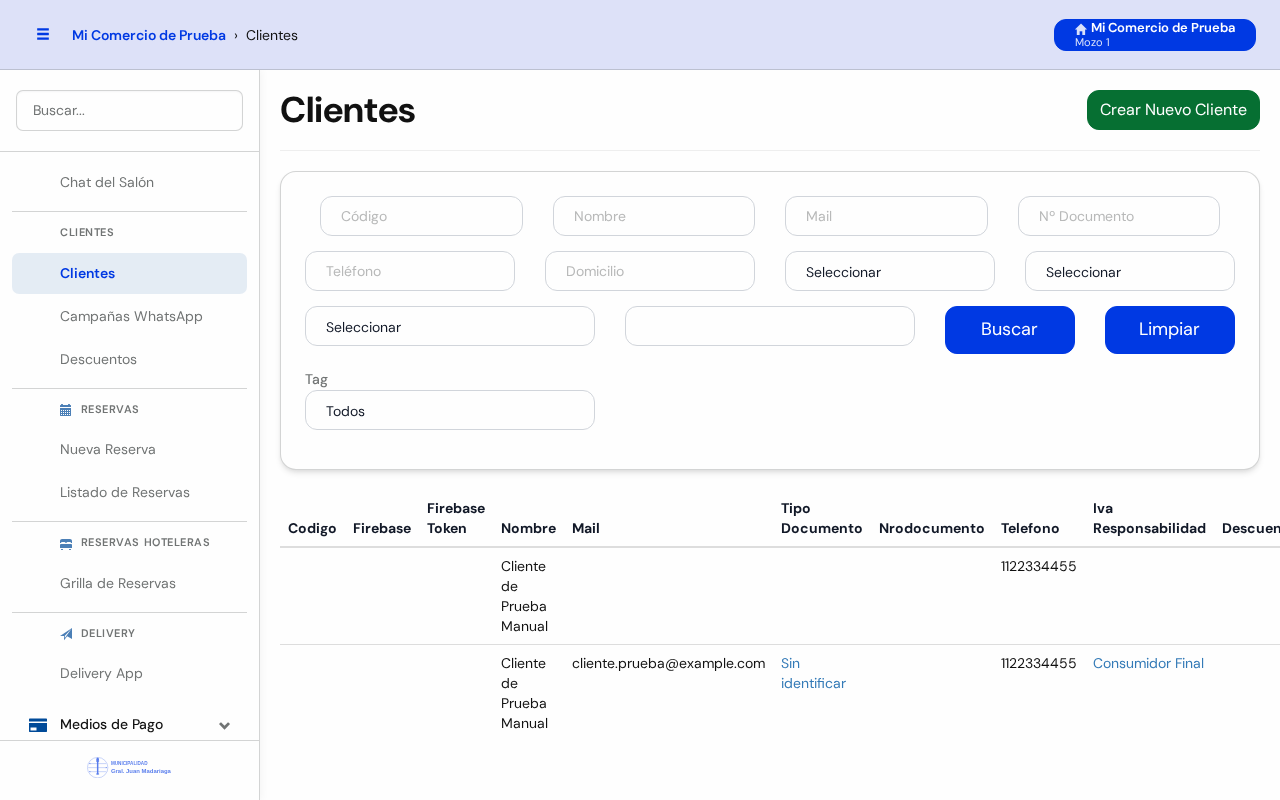
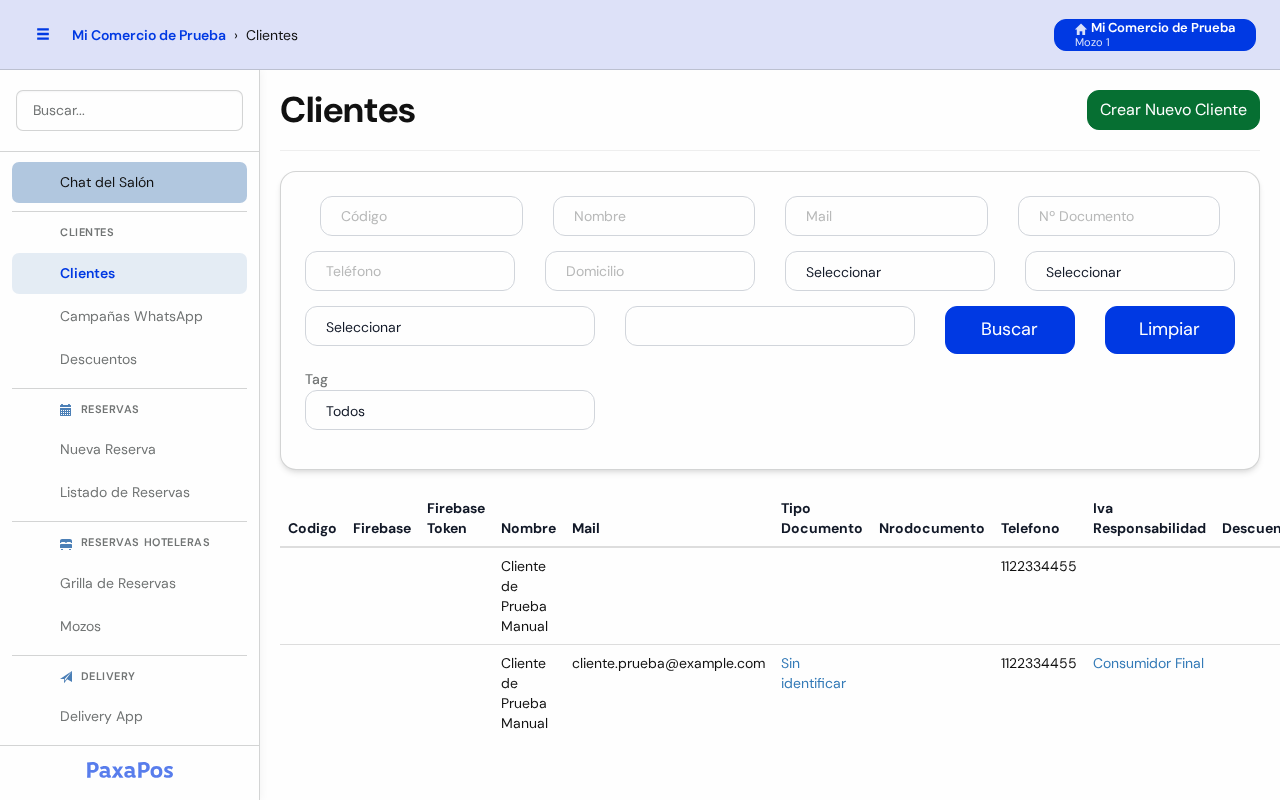
docs(manual): capturas por botón en 26 Cómo Configurar Descuentos
Receta 26 contra dev2: menú, búsqueda, alta (datos de mentira, sin guardar)
y Editar/Borrar (Borrar solo foto). Artículo reescrito paso a paso; el tope
de descuento del mozo está en Configuración general → Ventas y salón.

Se recapturan 10, 11, 12 y 13: las anteriores mostraban en el menú lateral
el logo de un comercio real.

Refs #149 #148

Changed region(s): [[0.0, 0.1875, 0.2188, 0.2812], [0.0, 0.7812, 0.125, 0.9688], [0.1562, 0.9062, 0.1875, 0.9375]]

diff --git a/src/routes/user-guide/Manual-Usuario/20-Ventas/26-Descuentos.md b/src/routes/user-guide/Manual-Usuario/20-Ventas/26-Descuentos.md
@@ -2,57 +2,134 @@
 
 <div id="descuentos"></div>
 
+> **¿Dónde está en el sistema?:** Menú principal → **Ventas** → **Descuentos**  
+> **¿Quién lo usa?:** Encargados y administradores
+
 > 🎯 **¿Para qué sirve esto?**
-> Desde Descuentos podés crear porcentajes de bonificación predefinidos (ej: "10% Empleados", "Cliente VIP") para aplicarlos rápido sobre una mesa o una venta, sin tener que calcular el importe a mano cada vez.
+> Acá creás descuentos listos para usar. Por ejemplo: *10% Empleados* o *Cliente VIP*. Después los aplicás en una mesa o en la Caja Rápida sin hacer cuentas.
 
 ---
 
-## 📍 **Paso 1: Accedé al listado de Descuentos**
+## 📍 **Paso 1: Entrá al listado de Descuentos**
 
-<div id="paso-1-accede-al-listado-de-descuentos"></div>
+<div id="paso-1-entra-al-listado-de-descuentos"></div>
 
-1. Desde el menú principal, tocá **Ventas** → **Descuentos**.
-2. Se abrirá el listado con todos los descuentos ya creados.
+![Grupo Ventas del menú lateral](images/manual/20-ventas/26-00a-menu-grupo-ventas.png)
 
-![Listado de descuentos con formulario de búsqueda por nombre y tabla de resultados](images/manual/20-ventas/12-descuentos-listado.png)
+1. En el menú de la izquierda, tocá **Ventas**. Se despliegan sus opciones.
 
-En esta pantalla vas a encontrar:
-- El botón verde **"Crear Descuento"** arriba a la derecha.
-- Un campo de búsqueda por **Nombre del Descuento**.
-- La tabla con las columnas: Nombre, Descripción, Porcentaje, Creado y las acciones (Editar, Borrar).
+![Opción Descuentos dentro del grupo Ventas](images/manual/20-ventas/26-00b-menu-opcion-descuentos.png)
 
-> 💡 **Consejo útil:** El porcentaje máximo que un mozo puede aplicar sin autorización se define en **Configuración → Parámetros del Sistema** (umbral de descuento). Por encima de ese valor, se necesita el permiso **"Aplicación y Configuración de Descuentos"**.
+2. Bajá hasta la parte **Clientes** y tocá **Descuentos**.
+3. Se abre el listado con los descuentos que ya existen.
 
----
+![Listado de descuentos con el buscador arriba y la tabla abajo](images/manual/20-ventas/12-descuentos-listado.png)
 
-## ➕ **Paso 2: Creá un nuevo descuento**
+En esta pantalla vas a ver:
 
-<div id="paso-2-crea-un-nuevo-descuento"></div>
-
-1. Tocá el botón verde **"Crear Descuento"**.
-2. Completá el formulario:
-
-![Formulario de alta de un nuevo descuento con nombre, descripción y porcentaje](images/manual/20-ventas/13-descuentos-nuevo-formulario.png)
-
-   - **Nombre:** Un título corto para identificarlo (ej: "10%").
-   - **Descripción:** Un detalle opcional (ej: "Descuento para empleados").
-   - **Porcentaje:** Solo el número, sin el signo `%` (ej: `10`).
-3. Tocá **"Agregar"** para guardarlo, o **"Cancelar"** para volver sin guardar.
-
-> ⚠ **Atención:** El porcentaje se descuenta sobre el total de la cuenta al aplicarlo desde el Salón de Ventas o la Caja Rápida.
+- **Arriba a la derecha:** el botón verde **Crear Descuento**.
+- **En el medio:** el buscador por **Nombre del Descuento**.
+- **Abajo:** la tabla con cada descuento, su porcentaje y sus botones **Editar** y **Borrar**.
 
 ---
 
-## ✏ **Paso 3: Editá o eliminá un descuento**
+## 🔍 **Paso 2: Buscá un descuento**
 
-<div id="paso-3-edita-o-elimina-un-descuento"></div>
+<div id="paso-2-busca-un-descuento"></div>
 
-En la columna de acciones de cada fila del listado:
+![Casillero Nombre del Descuento](images/manual/20-ventas/26-04-campo-name.png)
 
-![Botones de acción Editar y Borrar de un descuento](images/manual/20-ventas/40-descuentos-botones-accion.png)
+1. En **Nombre del Descuento**, escribí una parte del nombre. Por ejemplo: *10*.
 
-- Tocá **"Editar"** para modificar el nombre, la descripción o el porcentaje.
-- Tocá **"Borrar"** para eliminarlo. El sistema te pedirá confirmación antes de hacerlo.
+![Listado con el botón Buscar marcado en rojo](images/manual/20-ventas/26-05-donde-esta-boton-buscar.png)
+
+![Botón azul Buscar](images/manual/20-ventas/26-06-boton-buscar.png)
+
+2. Tocá el botón azul **Buscar**.
+3. La tabla muestra solo los descuentos que coinciden.
+
+---
+
+## ➕ **Paso 3: Creá un descuento nuevo**
+
+<div id="paso-3-crea-un-descuento-nuevo"></div>
+
+![Listado con el botón Crear Descuento marcado en rojo](images/manual/20-ventas/26-02-donde-esta-boton-crear-descuento.png)
+
+![Botón verde Crear Descuento](images/manual/20-ventas/26-03-boton-crear-descuento.png)
+
+1. Tocá el botón verde **Crear Descuento**, arriba a la derecha.
+2. Se abre la pantalla **Crear Descuento**.
+
+![Pantalla Crear Descuento con Nombre, Descripción y Porcentaje](images/manual/20-ventas/13-descuentos-nuevo-formulario.png)
+
+![Casillero Nombre con el texto Empleados 10%](images/manual/20-ventas/26-11-campo-nombre.png)
+
+3. En **Nombre**, escribí un nombre corto. Por ejemplo: *Empleados 10%*. Es el que vas a ver al aplicarlo.
+
+![Casillero Descripción](images/manual/20-ventas/26-12-campo-description.png)
+
+4. En **Descripción**, podés anotar para qué es. Por ejemplo: *Descuento para el personal*. Es opcional.
+
+![Casillero Porcentaje con el número 10](images/manual/20-ventas/26-13-campo-porcentaje.png)
+
+5. En **Porcentaje**, escribí **solo el número**, sin el signo %. Por ejemplo: *10*.
+
+![Pantalla Crear Descuento con el botón Agregar marcado en rojo](images/manual/20-ventas/26-14-donde-esta-boton-agregar.png)
+
+![Botón verde Agregar](images/manual/20-ventas/26-15-boton-agregar.png)
+
+6. Tocá el botón verde **Agregar**, abajo a la izquierda.
+7. El descuento queda guardado y aparece en el listado.
+
+![Pantalla Crear Descuento con el botón Cancelar marcado en rojo](images/manual/20-ventas/26-16-donde-esta-boton-cancelar.png)
+
+![Botón Cancelar](images/manual/20-ventas/26-17-boton-cancelar.png)
+
+- Si no querés guardarlo, tocá **Cancelar**, abajo a la derecha.
+
+> 💡 **Consejo útil:** El descuento se calcula sobre el total de la cuenta cuando lo aplicás en el [Salón de Ventas](/user-guide/salon-de-ventas).
+
+---
+
+## ✏ **Paso 4: Cambiá o borrá un descuento**
+
+<div id="paso-4-cambia-o-borra-un-descuento"></div>
+
+A la derecha de cada descuento hay dos botones:
+
+![Botones Editar y Borrar de un descuento](images/manual/20-ventas/40-descuentos-botones-accion.png)
+
+### Cambiar un descuento
+
+![Listado con el botón Editar marcado en rojo](images/manual/20-ventas/26-07-donde-esta-boton-editar.png)
+
+![Botón Editar](images/manual/20-ventas/26-08-boton-editar.png)
+
+1. Tocá **Editar** en el descuento que querés cambiar.
+2. Cambiá el nombre, la descripción o el porcentaje.
+3. Tocá el botón verde **Actualizar** para guardar.
+
+### Borrar un descuento
+
+> ⚠ **Atención:** Borrar un descuento no se puede deshacer.
+
+![Listado con el botón rojo Borrar marcado](images/manual/20-ventas/26-09-donde-esta-boton-borrar.png)
+
+![Botón rojo Borrar](images/manual/20-ventas/26-10-boton-borrar.png)
+
+1. Tocá el botón rojo **Borrar**.
+2. El sistema te pregunta si estás seguro. Tocá **Aceptar** para borrarlo.
+
+---
+
+## 🔒 **¿Qué descuentos puede usar un mozo?**
+
+<div id="que-descuentos-puede-usar-un-mozo"></div>
+
+- Hay un **tope** para los mozos. Se define en **Configuración** → **Configuración general** → **Ventas y salón**, en *Porcentaje máximo de descuento que puede hacer un mozo*.
+- Los usuarios sin permiso para **agregar descuentos** en el Salón de Ventas solo ven los descuentos que no pasan ese tope.
+- Para usar un descuento más grande, tiene que aplicarlo alguien con ese permiso (por ejemplo, el encargado).
 
 ---
 
@@ -62,7 +139,6 @@ En la columna de acciones de cada fila del listado:
 
 | Problema | Causa más frecuente | Solución recomendada |
 |---|---|---|
-| **No veo el botón "Crear Descuento"** | Tu usuario no tiene el permiso de gestión de clientes/descuentos. | Pedile al administrador que revise tus permisos en **Configuración → Roles y Permisos**. |
-| **El mozo no puede aplicar el descuento** | El porcentaje supera el umbral máximo permitido para su rol. | Pedile a un encargado con el permiso **"Aplicación y Configuración de Descuentos"** que lo aplique. |
-| **El listado solo muestra algunos descuentos** | Tu rol tiene un tope de porcentaje configurado y los descuentos mayores quedan ocultos. | Iniciá sesión con un usuario que tenga el permiso de aplicar descuentos sin tope. |
-
+| **No veo el botón Crear Descuento** | Tu usuario no tiene permiso para los clientes y descuentos. | Pedile al administrador que lo revise en [Permisos por Rol](/user-guide/permisos-por-rol). |
+| **El listado muestra solo algunos descuentos** | Tu usuario no tiene permiso para agregar descuentos: solo ve los que no pasan el tope. | Pedile al encargado que aplique el descuento, o que revise el tope. |
+| **El mozo no puede aplicar un descuento** | El descuento es más grande que el tope de los mozos. | Que lo aplique un encargado con permiso para agregar descuentos. |
